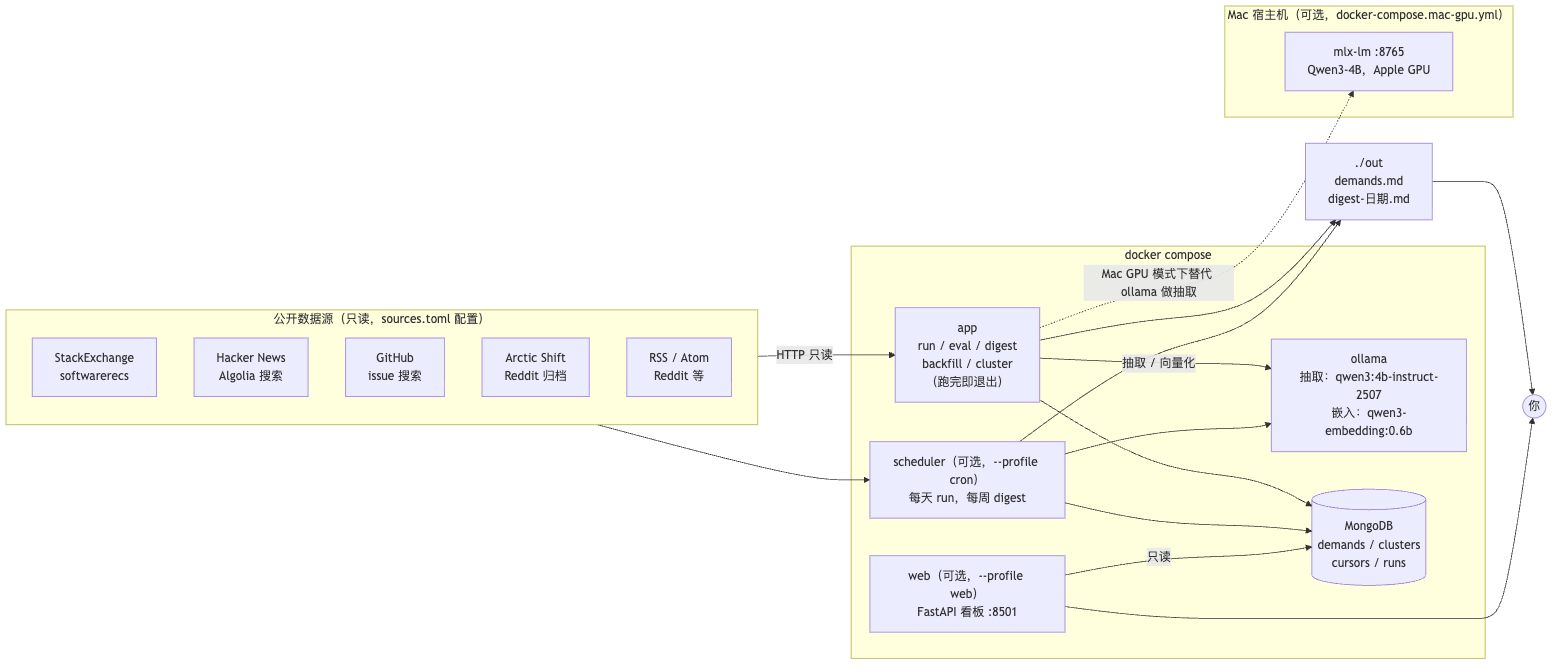
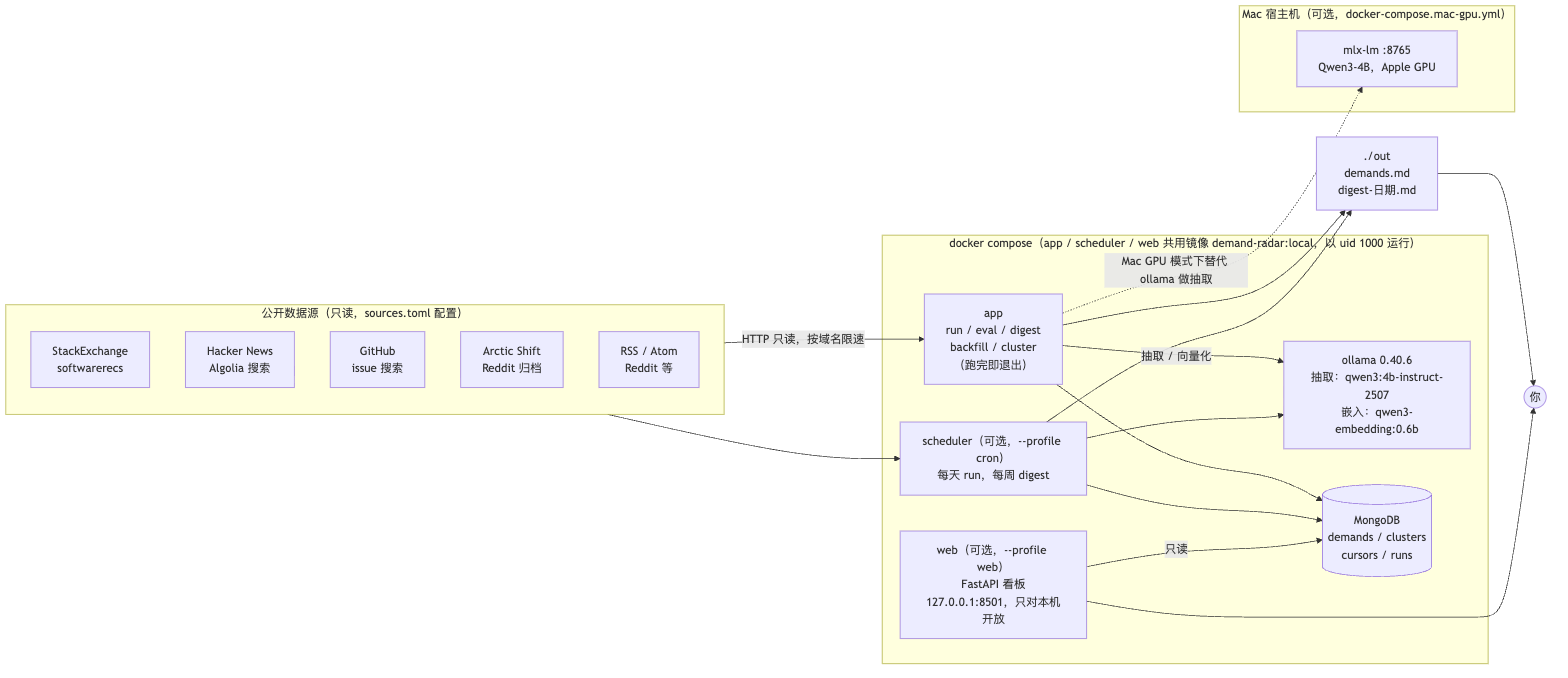
release: demand-radar v1.0.0，架构图按 v1.0.0 重画
- 版本号 0.3.0 → 1.0.0；CHANGELOG「未发布」定为 v1.0.0（第一个发行版本，功能同 v0.3.0，
  做安装、部署与工程质量整理；抽取逻辑未改）
- 决定继续放在 see 仓库，ROADMAP 关闭「拆成独立仓库」；当前没有待决事项
- 架构图更新：共用镜像与 uid 1000、看板只绑本机、ollama 固定版本、按域名限速、
  http.py 与容器入口、pip 安装方式；版式沿用用户选定的初稿

Changed region(s): [[0.0, 0.0, 1.0, 1.0], [0.7812, 0.6875, 0.8125, 0.7188]]

diff --git a/demand-radar/docs/architecture.md b/demand-radar/docs/architecture.md
@@ -1,6 +1,6 @@
 # 需求雷达：系统架构
 
-更新：2026-10-20。图片由折叠在每张图下面的 Mermaid 源码生成（GitHub 对这几张图的 Mermaid 渲染会失败，所以提交图片）。改图时先改源码，再在本目录执行：
+适用版本：v1.0.0（2026-10-20）。图片由折叠在每张图下面的 Mermaid 源码生成（GitHub 对这几张图的 Mermaid 渲染会失败，所以提交图片）。改图时先改源码，再在本目录执行：
 
 ```bash
 npx -y @mermaid-js/mermaid-cli@11.4.2 -i architecture.md -o /tmp/arch.md -e png -s 2 -b white
@@ -9,7 +9,7 @@ npx -y @mermaid-js/mermaid-cli@11.4.2 -i architecture.md -o /tmp/arch.md -e png 
 
 ## 一、部署架构
 
-所有东西都在你自己的机器上跑。对外只有一种连接：读各平台的公开接口。
+所有东西都在你自己的机器上跑。对外只有一种连接：读各平台的公开接口，所有请求按域名统一限速。
 
 ![部署架构](images/architecture-deployment.png)
 
@@ -26,11 +26,11 @@ flowchart LR
         RSS["RSS / Atom<br/>Reddit 等"]
     end
 
-    subgraph DC["docker compose"]
+    subgraph DC["docker compose（app / scheduler / web 共用镜像 demand-radar:local，以 uid 1000 运行）"]
         APP["app<br/>run / eval / digest<br/>backfill / cluster<br/>（跑完即退出）"]
         SCH["scheduler（可选，--profile cron）<br/>每天 run，每周 digest"]
-        WEB["web（可选，--profile web）<br/>FastAPI 看板 :8501"]
-        OLL["ollama<br/>抽取：qwen3:4b-instruct-2507<br/>嵌入：qwen3-embedding:0.6b"]
+        WEB["web（可选，--profile web）<br/>FastAPI 看板<br/>127.0.0.1:8501，只对本机开放"]
+        OLL["ollama 0.40.6<br/>抽取：qwen3:4b-instruct-2507<br/>嵌入：qwen3-embedding:0.6b"]
         MDB[("MongoDB<br/>demands / clusters<br/>cursors / runs")]
     end
 
@@ -41,7 +41,7 @@ flowchart LR
     OUT["./out<br/>demands.md<br/>digest-日期.md"]
     USER(("你"))
 
-    EXT -->|HTTP 只读| APP
+    EXT -->|HTTP 只读，按域名限速| APP
     EXT --> SCH
     APP -->|抽取 / 向量化| OLL
     SCH --> OLL
@@ -59,12 +59,14 @@ flowchart LR
 
 | 组件 | 什么时候在跑 | 说明 |
 |---|---|---|
-| app | 每次 `docker compose run --rm app <命令>` | 跑完一轮就退出；入口脚本先等 ollama、按命令拉需要的模型 |
+| app | 每次 `docker compose run --rm app <命令>` | 跑完一轮就退出；入口脚本先检查 `./out` 可写、等 ollama、按命令拉需要的模型 |
 | scheduler | `--profile cron` 时常驻 | 和 app 同一份代码，自己 sleep 到点，不靠系统 cron |
-| web | `--profile web` 时常驻 | 只读库、不调模型；排序和合并逻辑与清单共用 |
-| ollama | 默认常驻 | 模型都在本地，不需要 API key |
+| web | `--profile web` 时常驻 | 只读库、不调模型；排序和合并逻辑与清单共用；端口只绑本机，带健康检查 |
+| ollama | 默认常驻 | 版本固定 0.40.6；模型都在本地，不需要 API key |
 | mlx-lm | Mac 上可选 | Docker 拿不到 Apple GPU，所以模型在宿主机原生跑；它没有嵌入接口，合并仍走 ollama |
-| MongoDB | 常驻 | 数据卷 `mongo-data`，删容器不丢数据 |
+| MongoDB | 常驻 | 数据卷 `mongo-data`，删容器不丢数据；端口不对外 |
+
+**不用 Docker**：`pip install -e ".[web]"` 之后有 `demand-radar` 命令，自备 MongoDB 和 Ollama（或任意 OpenAI 兼容服务）。在仓库外运行时，没有本地的 `sources.toml` 和评测集就用安装包自带的默认版本。
 
 ## 二、一轮 run 的处理流水线
 
@@ -75,7 +77,7 @@ flowchart LR
 
 ```mermaid
 flowchart TD
-    A["sources/*<br/>按游标增量抓取<br/>单个源失败只跳过它"] --> B{"store.should_process<br/>处理过的跳过<br/>失败的最多重试 3 次"}
+    A["sources/*<br/>按游标增量抓取，按域名限速<br/>单个源失败只跳过它"] --> B{"store.should_process<br/>处理过的跳过<br/>失败的最多重试 3 次"}
     B -->|新的 / 待重试| C["filters<br/>规则预过滤<br/>空帖、Show HN、自我推广、机器人内容"]
     B -->|已处理| SKIP(["跳过"])
     C -->|命中规则| F1[("status = filtered")]
@@ -111,8 +113,10 @@ flowchart TD
 
 ```mermaid
 flowchart LR
-    CLI["cli.py<br/>命令入口"] --> CFG["config.py<br/>命令行 > 环境变量 > 默认值"]
-    CLI --> SRC["sources/<br/>softwarerecs · hn_algolia · github<br/>arctic_shift · rss<br/>cursor · http"]
+    ENT["docker/entrypoint.py<br/>容器入口：检查输出目录、等模型、拉模型"] --> CLI
+    CLI["cli.py<br/>demand-radar 命令入口"] --> CFG["config.py<br/>命令行 > 环境变量 > 默认值<br/>默认配置随包分发"]
+    CLI --> SRC["sources/<br/>softwarerecs · hn_algolia · github<br/>arctic_shift · rss<br/>cursor 增量游标"]
+    SRC --> HTTP["sources/http.py<br/>按域名限速、限流冷却、重试"]
     CLI --> FIL["filters.py"]
     CLI --> EXT["extract.py<br/>Instructor + OpenAI 兼容接口"]
     EXT --> EXC["excerpt.py"]

diff --git a/demand-radar/CHANGELOG.md b/demand-radar/CHANGELOG.md
@@ -1,8 +1,8 @@
 # 更新记录
 
-## 未发布
+## v1.0.0（2026-10-20）
 
-为第一个发行版本做的整理。没有改抽取逻辑和提示词，抽取质量与 v0.3.0 相同。
+第一个发行版本。功能与 v0.3.0 相同，这一版做的是安装、部署和工程质量上的整理：可以 pip 安装、依赖版本锁定、容器更安全、CI 更完整。抽取逻辑和提示词没有改，抽取质量与 v0.3.0 相同。项目继续放在 `see` 仓库的 `demand-radar/` 目录下。
 
 ### 安装与打包
 
@@ -36,6 +36,7 @@
 - **相似需求合并的隐患**：嵌入服务少返回向量时，以前会悄悄跳过那几条，现在会直接报错。
 - **CI**：增加代码检查、Python 3.11 / 3.12 双版本测试、打包后在仓库外安装试跑、镜像运行检查。
 - **贡献指南**：新增 `CONTRIBUTING.md`，写明开发环境、怎么加数据源、改动要过的检查。
+- **架构图**：按 v1.0.0 重画，见 [`docs/architecture.md`](docs/architecture.md)。
 
 ## v0.3.0（2026-10-20）
 

diff --git a/demand-radar/README.md b/demand-radar/README.md
@@ -317,7 +317,7 @@ GitHub 上已有一些同类项目，比如 [Reddit_Scrapper](https://github.com
 | [`ROADMAP.md`](ROADMAP.md) | 路线图和最新评测结果 |
 | [`docs/tech-plan.md`](docs/tech-plan.md) | 技术路线规划 |
 | [`CONTRIBUTING.md`](CONTRIBUTING.md) | **参与贡献**：开发环境、怎么加数据源、改动要过的检查 |
-| [`CHANGELOG.md`](CHANGELOG.md) | 版本更新记录（当前 v0.3.0） |
+| [`CHANGELOG.md`](CHANGELOG.md) | 版本更新记录（当前 v1.0.0） |
 | [`docs/architecture.md`](docs/architecture.md) | **系统架构图**：部署、处理流水线、代码模块、数据存储 |
 | [`docs/landscape.md`](docs/landscape.md) | 同类项目调研 |
 | [`docs/market.md`](docs/market.md) | 市场调研与潜力分析 |

diff --git a/demand-radar/README.en.md b/demand-radar/README.en.md
@@ -215,7 +215,7 @@ See [`CONTRIBUTING.md`](CONTRIBUTING.md) (in Chinese) for the dev setup, how to 
 
 ## Changelog
 
-Current version: v0.3.0. See [`CHANGELOG.md`](CHANGELOG.md) (in Chinese).
+Current version: v1.0.0. See [`CHANGELOG.md`](CHANGELOG.md) (in Chinese).
 
 ## License
 
